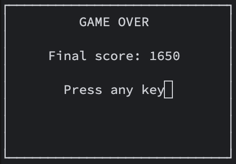
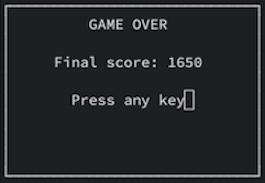
update readme

diff --git a/README.md b/README.md
@@ -6,8 +6,8 @@ Sandbox for playing with ML models and solutions
 ## Pong
 - Pong is a simple reinforcement learning powered pong game.
 
-![img_1.png](pong/img_1.png)
-![img_2.png](pong/img_2.png)
+![img_1.png](pong/images/pong_1.png)
+![img_2.png](pong/images/pong_2.png)
 
 ## EuroSatCNN
 - EuroSatCNN is a simple Convolutional Neural Network based image classifier implemented in PyTorch.
